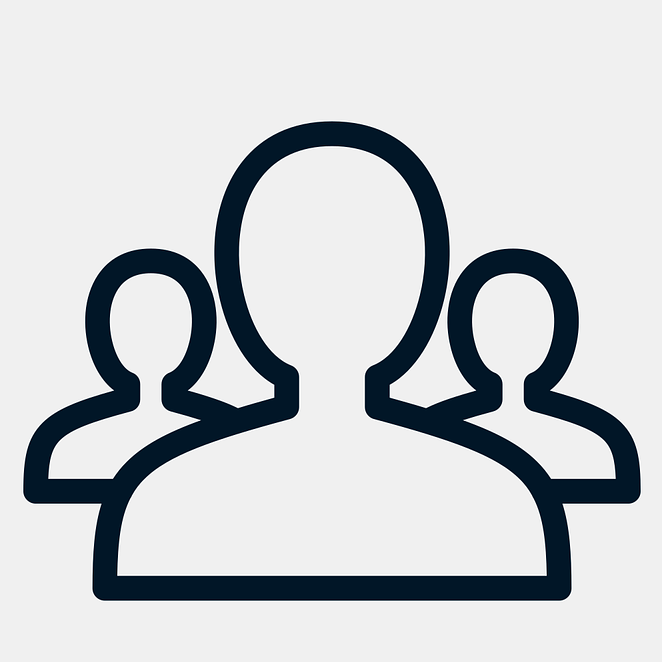
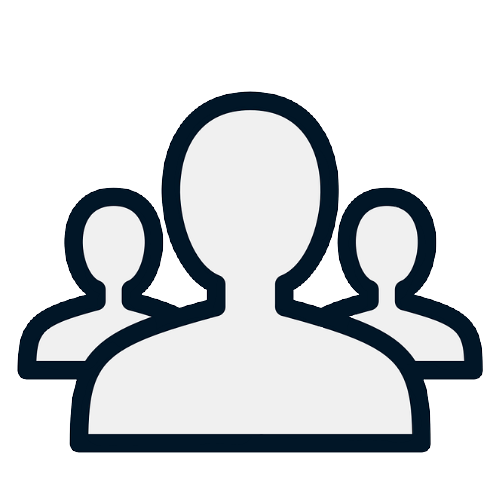
Made an image transparent

diff --git a/index.html b/index.html
@@ -24,7 +24,7 @@
 
             <!--Header content-->
             <h1>
-                <a href="https://github.com/Project-Prism/Prism-OS"><img src="./Images/logo.bmp" width="74"></a>
+                <a href="https://github.com/Project-Prism/Prism-OS"><img src="./Images/Favicon.png" width="74"></a>
                 Prism OS
             </h1>
             <p class="Saying">The future of computers.</p>
